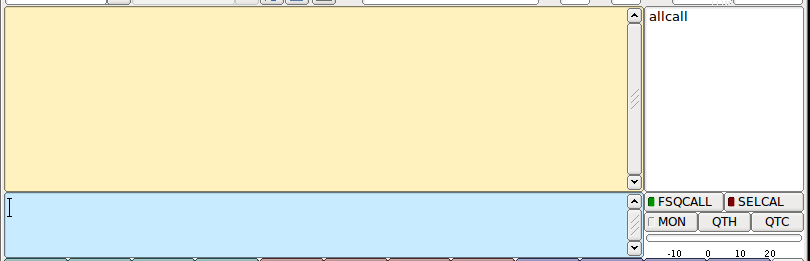
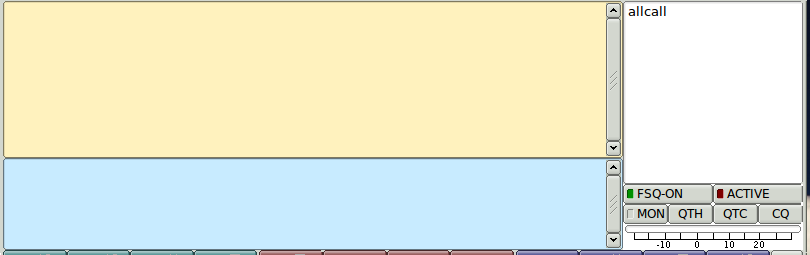
fsq cqcqcq
* added cqcqcq button
    - casual users do not know to send cqcqcq vice
      cq cq cq
  * Updated on-line help

Changed region(s): [[0.0, 0.0, 1.0, 1.0]]

diff --git a/src/include/fl_digi.h b/src/include/fl_digi.h
@@ -223,6 +223,7 @@ extern void			enableSELCAL();
 
 extern void			cbFSQQTC(Fl_Widget *w, void *d);
 extern void			cbFSQQTH(Fl_Widget *w, void *d);
+extern void			cbFSQCQ(Fl_Widget *w, void *d);
 extern void			cbMONITOR(Fl_Widget *w, void *d);
 extern void			cbSELCAL(Fl_Widget *w, void *d);
 extern void			cbFSQCALL(Fl_Widget *w, void *d);
